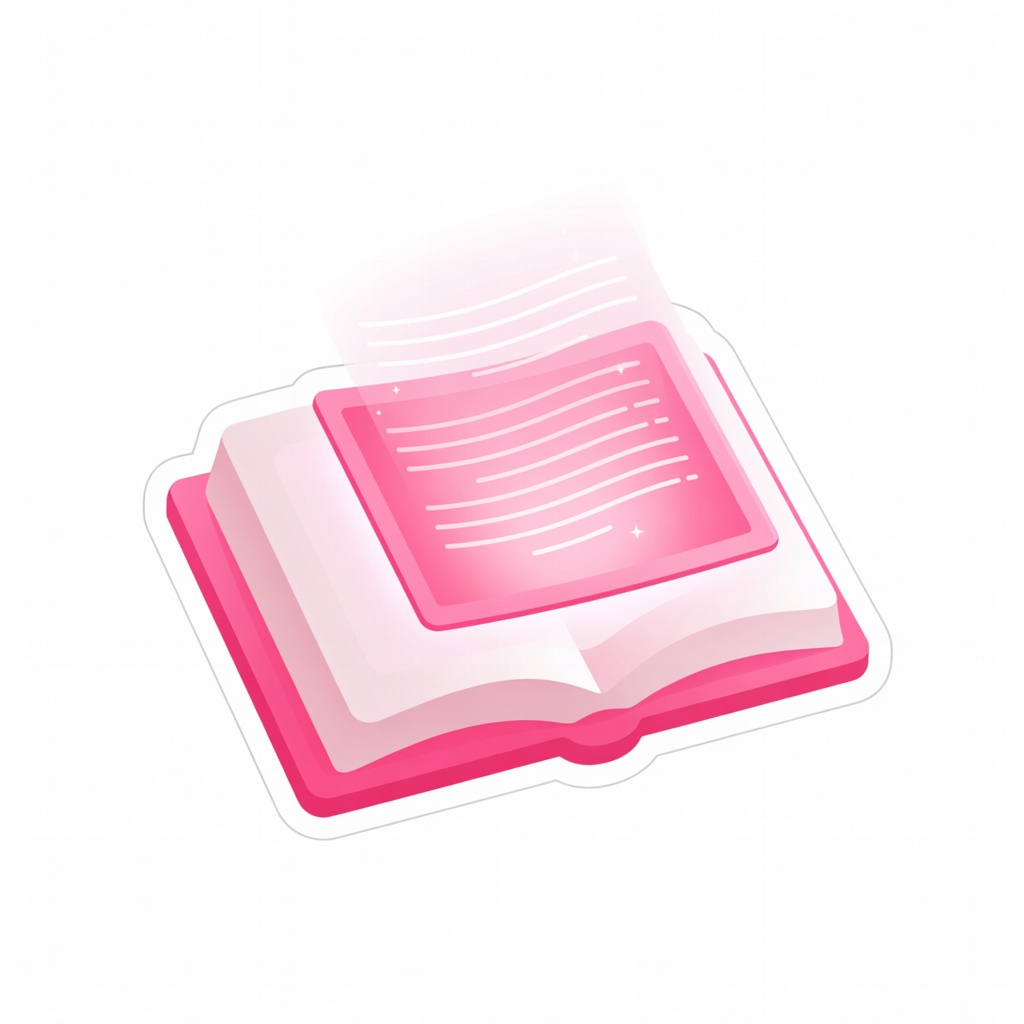
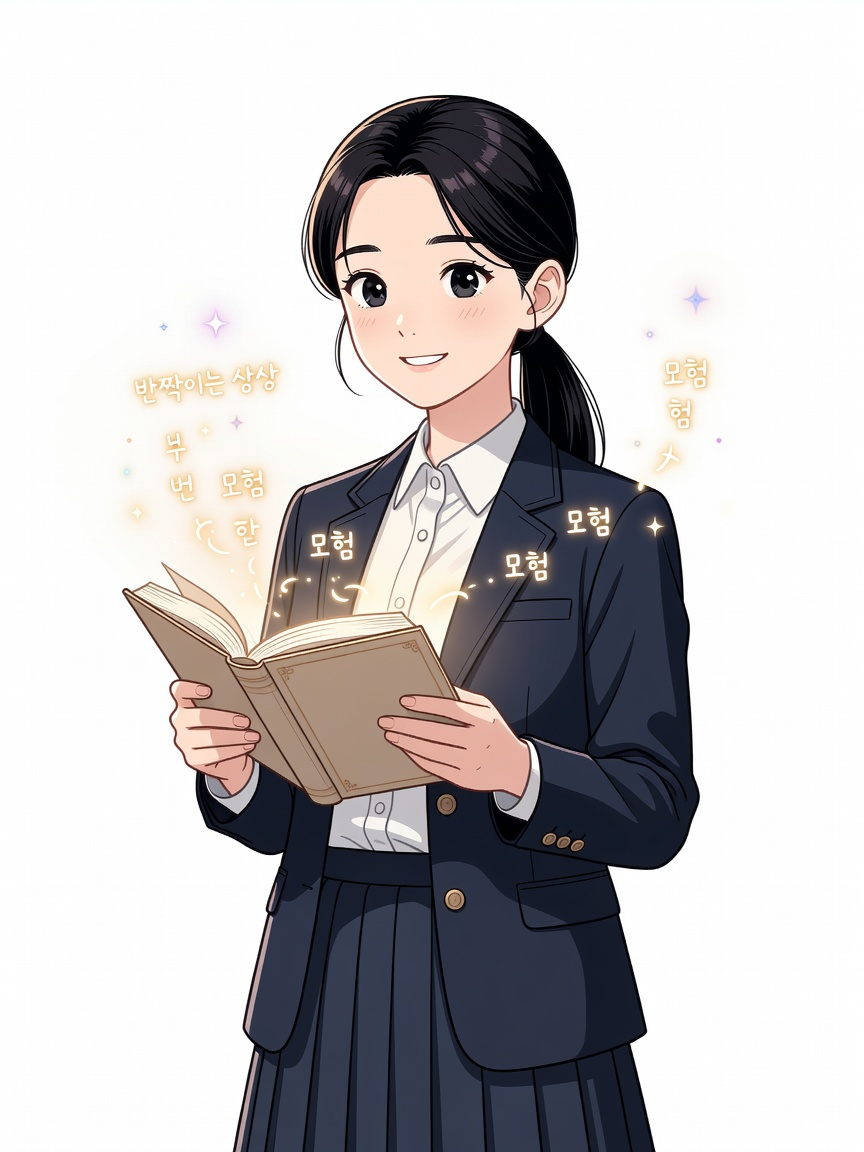
feat: 참가영역 이미지를 웹툰/웹소설 캐릭터 일러스트로 교체(핑크 직접 표현 완화)
- 폰 만화/책 이미지 → 웹툰풍 캐릭터·웹소설 스토리텔러 캐릭터
- 카드 썸네일을 contain·높이 300px로 변경해 인물 전체 표시

diff --git a/index.html b/index.html
@@ -110,7 +110,7 @@
   .card:hover{transform:translateY(-3px);border-color:var(--pink)}
   .card .ico{width:42px;height:42px;border-radius:12px;background:var(--pink-soft);color:var(--pink);
     display:grid;place-items:center;font-size:20px;margin-bottom:14px}
-  .card .thumb{width:100%;height:220px;border-radius:16px;object-fit:cover;background:#fff;display:block;
+  .card .thumb{width:100%;height:300px;border-radius:16px;object-fit:contain;background:#fff;display:block;
     margin-bottom:18px;border:1px solid var(--pink-line);box-shadow:var(--shadow-sm)}
   .card h3{font-size:17px;font-weight:800;letter-spacing:-.02em;margin-bottom:6px}
   .card p{font-size:14px;color:var(--ink-soft)}